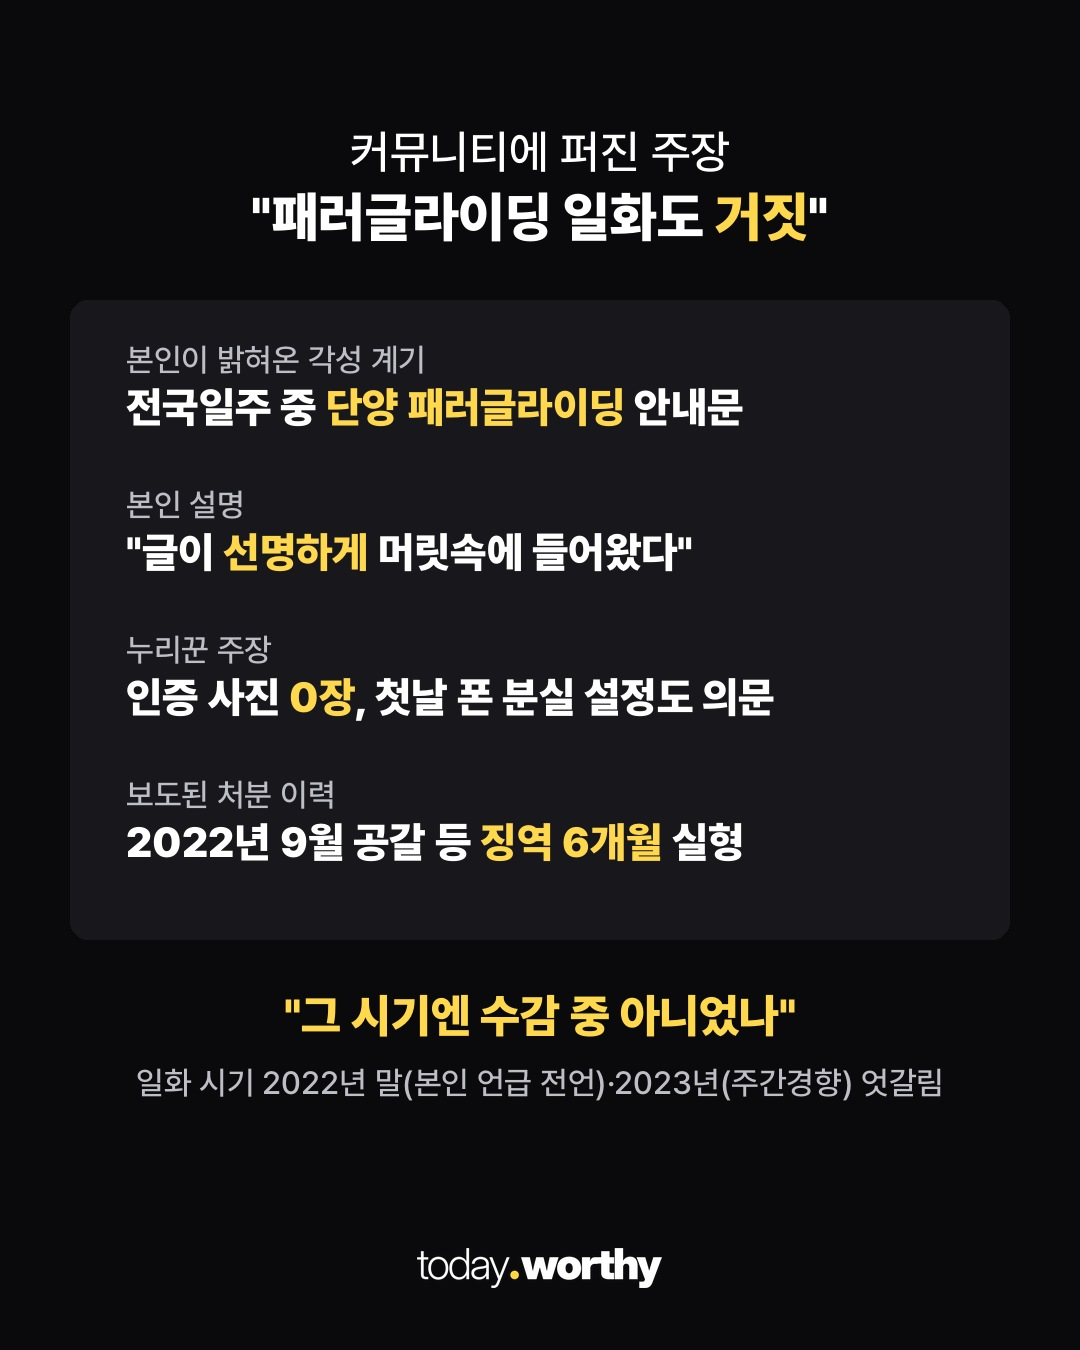
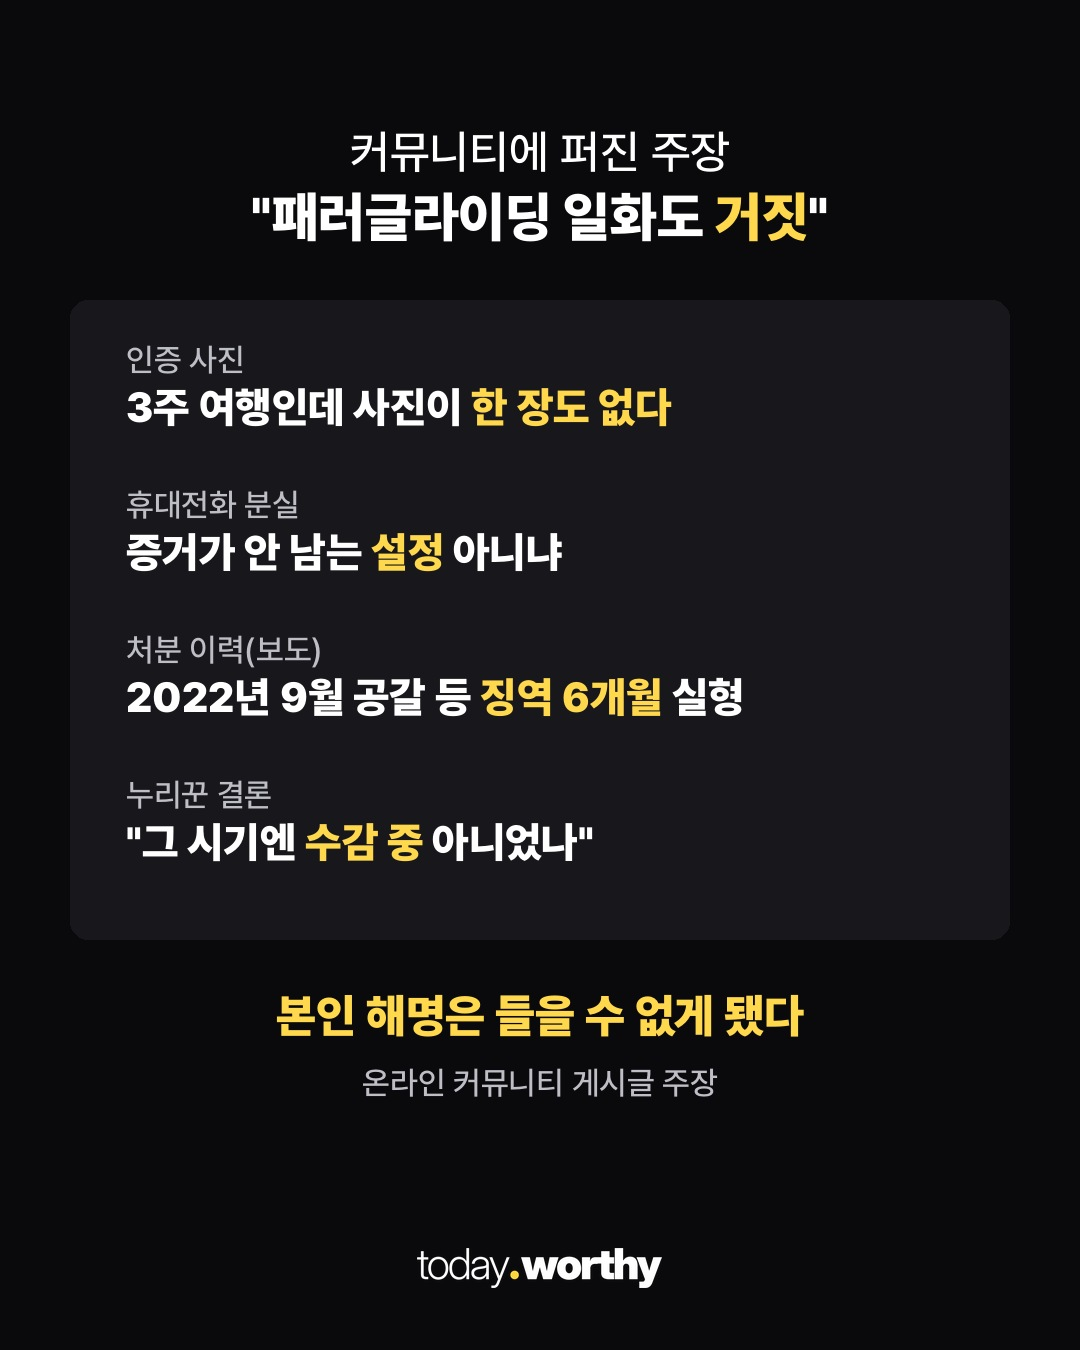
manual: 리트 만점자 패러글라이딩 일화 거짓 의혹으로 다시 만듦

diff --git a/media/20261121-leetaccomp/build_cards.py b/media/20261121-leetaccomp/build_cards.py
@@ -1,4 +1,4 @@
-"""20261121-leetaccomp: 리트 만점자 패러글라이딩 일화 거짓 의혹(커뮤니티 주장) + 공범·외부 조력 의혹(경찰 수사·고발인). leetjail/build_cards.py 복사.
+"""20261121-leetaccomp: 리트 만점자 패러글라이딩 일화 거짓 의혹(커뮤니티 주장) + (패러글라이딩 중심으로 다시 만듦). leetjail/build_cards.py 복사.
 원래: 20261119-leetjail(속보): JTBC(11.19 09:08) 리트 만점자 구치소 수감 재소자 증언·개명 전 이름·생년월일 일치 공갈 판결문. 실명·개명 전 이름 안 씀.
 근거: 사용자 제공 JTBC 기사 캡처(제목·요약·첫 문단). 따옴표는 기사에 실린 증언만. sidae/build_cards.py 복사."""
 import json, re, subprocess, sys
@@ -67,26 +67,23 @@ def panel(rows, h=640, gap=None):
 
 
 
-yt = op("press01.jpg").crop((560, 20, 1280, 430))  # 초소형 카메라 부분만(로고·자막 빼고)
-frame(("숨졌지만 수사는 계속", "남은 의문 '공범 있었나'"), fit(yt, 940, 560, (.5, .5)),
-      "경찰, 외부 조력자·공범 여부 '수사 중'", "사진: 초소형 카메라(YTN 화면)").save(O / "c02.jpg", quality=93)
+frame(("본인이 밝혀온 '각성' 계기", "단양 '패러글라이딩' 안내문"),
+      panel([("본인 설명", "친구들과 '3주 전국일주' 떠난 첫날 폰 분실"),
+             ("그 뒤", "3주간 휴대전화 없이 '디지털 디톡스'"),
+             ("충북 단양에서", "'패러글라이딩 안내문'을 읽다가"),
+             ("본인 표현", "\"글이 '선명하게' 머릿속에 들어왔다\"")], h=640),
+      "이 경험 뒤 성적이 '급상승'했다는 이야기", "주간경향(11.18)·생전 인터뷰").save(O / "c02.jpg", quality=93)
 frame(("커뮤니티에 퍼진 주장", "\"패러글라이딩 일화도 '거짓'\""),
-      panel([("본인이 밝혀온 각성 계기", "전국일주 중 '단양 패러글라이딩' 안내문"),
-             ("본인 설명", "\"글이 '선명하게' 머릿속에 들어왔다\""),
-             ("누리꾼 주장", "인증 사진 '0장', 첫날 폰 분실 설정도 의문"),
-             ("보도된 처분 이력", "2022년 9월 공갈 등 '징역 6개월' 실형")], h=640),
-      "\"그 시기엔 '수감 중' 아니었나\"", "일화 시기 2022년 말(본인 언급 전언)·2023년(주간경향) 엇갈림").save(O / "c03.jpg", quality=93)
-frame(("공범 의혹 근거로 거론되는 것", "리트 답 '한 칸씩 밀림'"),
-      panel([("리트 25~29번", "지운 답이 '바로 앞 문항 정답'과 일치"),
-             ("제기된 의혹", "불러준 답을 '밀려 받아 적은' 것 아니냐"),
-             ("2023년 수능 당시", "생성형 AI 정답률 '지금보다 낮아'"),
-             ("경찰 판단", "외부 조력자 개입 '배제 안 해'")], h=640),
-      "본인은 생전 의혹 '부인'", "파이낸셜뉴스·주간경향(11.18~20)").save(O / "c04.jpg", quality=93)
-frame(("'공소권 없음'으로 끝날까", "경찰 \"실체 규명 계속\""),
-      panel([("광역수사단 금융범죄수사대", "\"사망에도 '수사 계속'\""),
-             ("증거", "2026학년도 수능 시험지 '증거보전'"),
-             ("고발인 변호사", "종결되면 '성명불상 공범' 추가 고발"),
-             ("부검 결과", "타살 정황 '없어'")], h=640),
-      "공범 존재 여부는 '아직 확인 안 돼'", "네이트·파이낸셜뉴스(11.19~20)").save(O / "c05.jpg", quality=93)
+      panel([("인증 사진", "3주 여행인데 사진이 '한 장도 없다'"),
+             ("휴대전화 분실", "증거가 안 남는 '설정' 아니냐"),
+             ("처분 이력(보도)", "2022년 9월 공갈 등 '징역 6개월' 실형"),
+             ("누리꾼 결론", "\"그 시기엔 '수감 중' 아니었나\"")], h=640),
+      "본인 해명은 들을 수 없게 됐다", "온라인 커뮤니티 게시글 주장").save(O / "c03.jpg", quality=93)
+frame(("날짜를 맞춰 보면", "일화 시기 '엇갈려'"),
+      panel([("2022년 9월", "공갈 등 혐의 '징역 6개월' 선고(보도)"),
+             ("2022년 말", "본인이 말했다는 '3주 전국일주' 시기"),
+             ("2023년", "주간경향 보도 속 '도보 전국일주' 시기"),
+             ("2023년 11월", "수능 응시, 뒤이어 '고려대 합격'")], h=640),
+      "2022년 말이면 '수감 기간'과 겹칠 수 있다", "출소 시점은 '확인 안 돼'").save(O / "c04.jpg", quality=93)
 fit(op("lee_photo.jpg"), W, H, (.5, .2)).save(O / "cover_bg.jpg", quality=95)
 print("ok")
